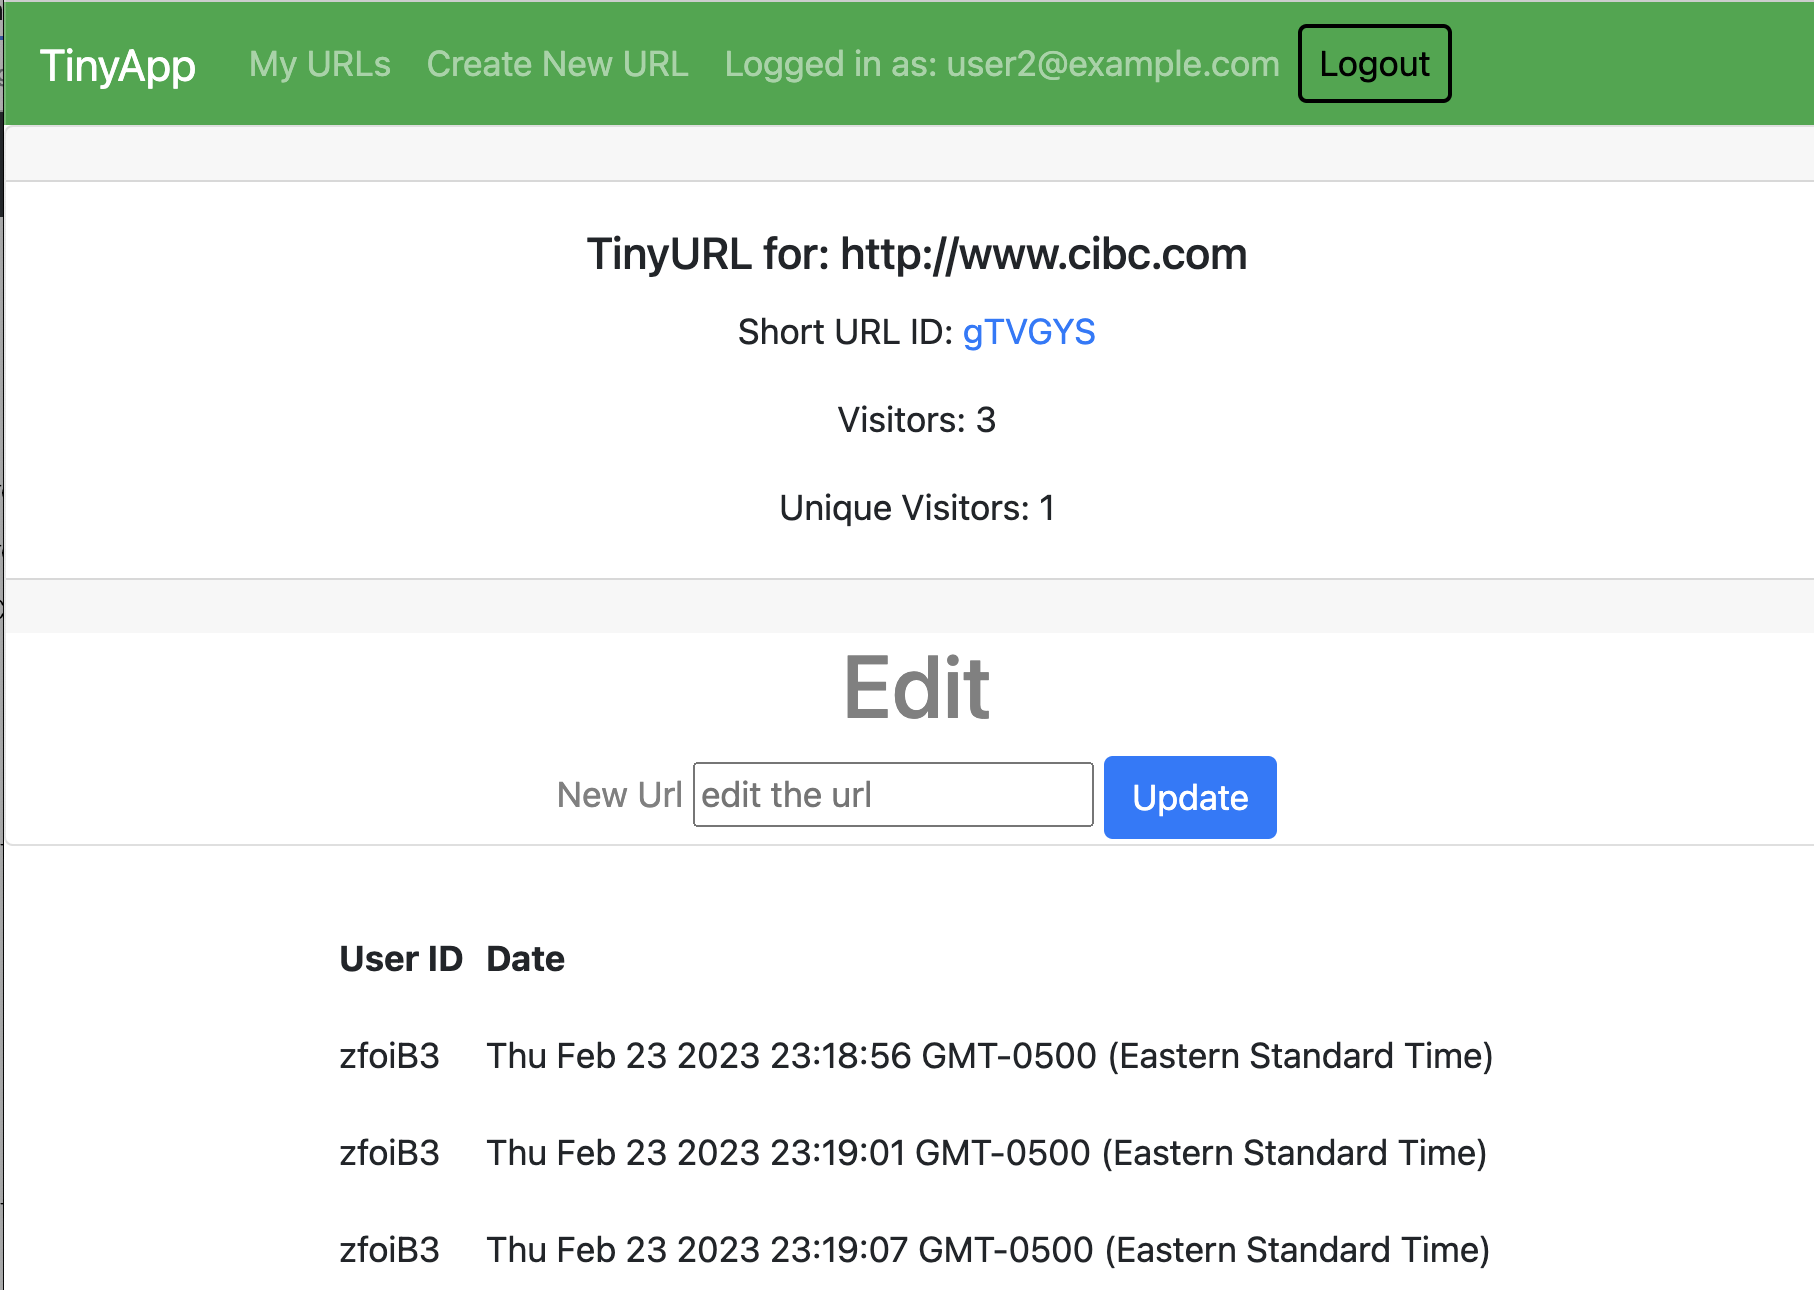
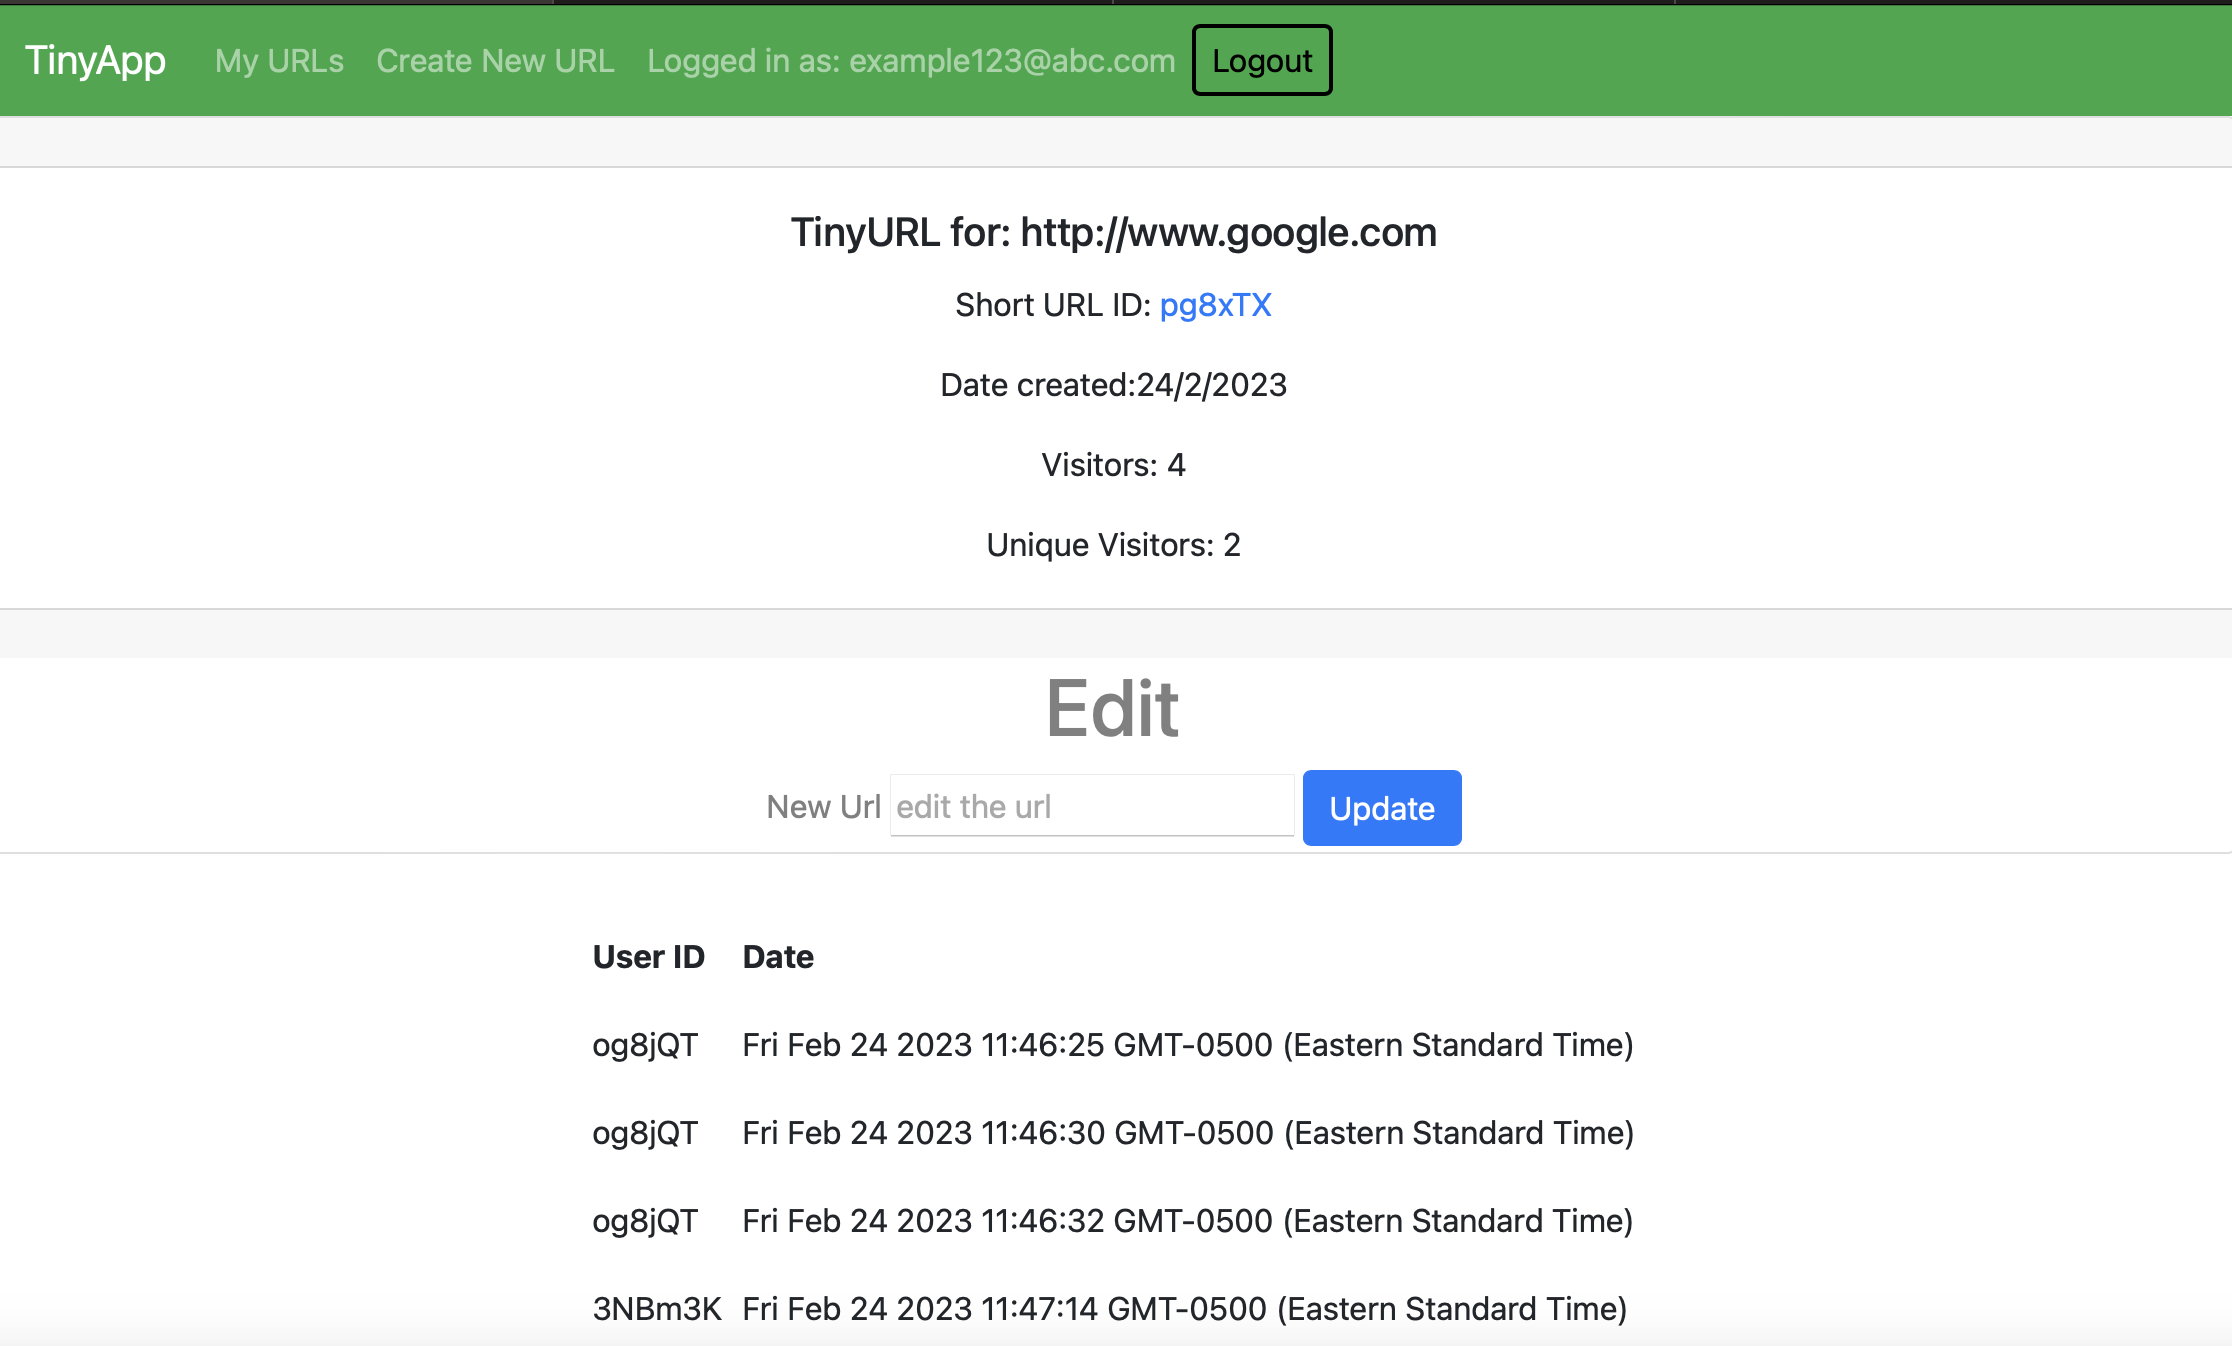
screenshot

diff --git a/express_server.js b/express_server.js
@@ -32,6 +32,7 @@ const urlDatabase = {
     visitors: [],
     counter: 0,
     uniqueCounter:0,
+    dateCreated: '20/2/2023'
   },
   i3BoGr: {
     longURL: "https://www.google.ca",
@@ -39,6 +40,7 @@ const urlDatabase = {
     visitors: [],
     counter: 0,
     uniqueCounter:0,
+    dateCreated: '18/2/2023'
   },
 };
 
@@ -55,9 +57,12 @@ const users = {
   },
 };
 
-const UrlsVisitors = [];
-
 //*ROUTES*\\
+
+// GET /urls.json
+app.get("/urls.json", (req, res) => {
+  res.json(urlDatabase);
+});
 
 //GET /
 app.get("/", (req, res) => {
@@ -70,19 +75,9 @@ app.get("/", (req, res) => {
   }
 });
 
-// GET /urls.json
-app.get("/urls.json", (req, res) => {
-  res.json(urlDatabase);
-});
-
-//GET /hello
-app.get("/hello", (req, res) => {
-  res.send("<html><body>Hello <b>World</b></body></html>\n");
-});
-
 // GET /urls
 app.get("/urls", (req,res) => {
-  const templateVars = { id: req.params.id, longURL: urlDatabase[req.params.id], users, user_id: req.session.user_id, urls: urlDatabase };
+  const templateVars = { id: req.params.id, longURL: urlDatabase[req.params.id], users, user_id: req.session.user_id, urls: urlDatabase}
   const userId = templateVars.user_id;
   if (userId) {
     res.render("urls_index",templateVars);
@@ -103,24 +98,62 @@ app.get("/urls/new", (req, res) => {
 
 //GET /urls/:id
 app.get("/urls/:id", (req, res) => {
-  const templateVars = { id: req.params.id, longURL: urlDatabase[req.params.id], users, user_id: req.session.user_id, urls: urlDatabase, counter:visitors, UrlsVisitors: UrlsVisitors, counterUnique: unique}
+  const templateVars = { id: req.params.id, longURL: urlDatabase[req.params.id], users, user_id: req.session.user_id, urls: urlDatabase}
   const urlID = req.params.id;
   const userId = templateVars.user_id;
   
+  //if a URL for the given ID does not exist:
+  if(!urlDatabase[urlID]){
+    return res.send('ERROR: This Url does not exist');
+  }
+  //if user is not logged in
   if (!userId) {
     return res.render('urls_message', templateVars);
   }
-  if ((userId) && !urlDatabase[urlID]) {
-    return res.send('ERROR: This Url is not valid');
+  //if user is logged it but does not own the URL with the given ID:
+  if ((userId) && urlDatabase[urlID].userId !== userId) {
+    return res.send('ERROR: You are not the owner of this Url');
   }
+  //if user is logged in and owns the URL for the given ID:
   if ((userId) && urlDatabase[urlID].userId === userId) {
     res.render("urls_show", templateVars);
   } else {
-    return res.send('ERROR: You can not edit this Url');
+    return res.send('ERROR: You do not have access to this Url');
   }
 });
 
-//POST /urls
+//GET /u/:id (Redirect any request to "/u/:id" to its longURL)
+app.get("/u/:id", (req, res) => {
+  const templateVars = { id: req.params.id, longURL: urlDatabase[req.params.id], users, user_id: req.session.user_id, urls: urlDatabase}
+  const urlID = req.params.id;
+  const userId = templateVars.user_id;
+  const longURL = urlDatabase[req.params.id].longURL;
+
+  //keep track of how many times a given short URL is visited 
+  urlDatabase[urlID].counter++
+
+  //keep track of how many UNIQUE visitors visit each url
+  const date = new Date().toString();
+  if(!req.session.uniqueVisitorId){
+    req.session.uniqueVisitorId = generateRandomString();
+    urlDatabase[urlID].uniqueCounter++;
+  }
+  
+  //keep track of every visit (timestamp, and a generated visitor_id) and display the list on the URL edit page
+  const newVisitor = {id: req.session.uniqueVisitorId, date:date}
+  urlDatabase[urlID].visitors.push(newVisitor)
+  console.log(urlDatabase)
+
+  //if URL for the given ID does not exist:
+  if (!urlDatabase[urlID]) {
+    return res.send('ERROR: This Url is not valid');
+  }
+  //if URL for the given ID exists:
+  return res.redirect(longURL);
+
+});
+
+//POST /urls (create a new Url)
 app.post("/urls", (req, res) => {
   let templateVars = { id: req.params.id, longURL: urlDatabase[req.params.id], users, user_id: req.session.user_id, urls: urlDatabase };
   const userId = templateVars.user_id;
@@ -135,6 +168,7 @@ app.post("/urls", (req, res) => {
       counter: 0,
       uniqueCounter:0,
       visitors: [],
+      dateCreated: `${new Date().getDate()}/${new Date().getMonth()+1}/${new Date().getFullYear()}`
     };
     console.log(urlDatabase, users);
     res.redirect(`/urls/${randomString}`);
@@ -144,84 +178,77 @@ app.post("/urls", (req, res) => {
   }
 });
 
-//GET /message
-app.get("/message", (req, res) => {
-  const templateVars = { id: req.params.id, longURL: urlDatabase[req.params.id], users, user_id: req.session.user_id, urls: urlDatabase };
-
-  res.render('urls_message', templateVars);
-});
-
-//Redirect any request to "/u/:id" to its longURL
-let visitors = 0;
-let unique = 0;
-app.get("/u/:id", (req, res) => {
-  const templateVars = { id: req.params.id, longURL: urlDatabase[req.params.id], users, user_id: req.session.user_id, urls: urlDatabase, counter:visitors, UrlsVisitors: UrlsVisitors, counterUnique: unique}
-  const urlID = req.params.id;
-  const userId = templateVars.user_id;
-  const longURL = urlDatabase[req.params.id].longURL;
-  urlDatabase[urlID].counter++
-
-  
-  const date = new Date().toString();
-  if(!req.session.uniqueVisitorId){
-    req.session.uniqueVisitorId = generateRandomString();
-    urlDatabase[urlID].uniqueCounter++;
-    urlDatabase[urlID].visitors = {id: req.session.uniqueVisitorId, date:date};
-  }
-  
-  const newVisitor = {id: req.session.uniqueVisitorId, date:date}
-  urlDatabase[urlID].visitors.push(newVisitor)
-  console.log(urlDatabase)
-
-  if (!urlDatabase[urlID]) {
-    return res.send('ERROR: This Url is not valid');
-  }
-  return res.redirect(longURL);
-
-});
-
-//delete an url
-app.post("/urls/:id", (req, res) => {
-  const templateVars = { id: req.params.id, longURL: urlDatabase[req.params.id], users, user_id: req.session.user_id, urls: urlDatabase };
-  const urlID = req.params.id;
-  const userId = templateVars.user_id;
-  if (!userId) {
-    return res.render('urls_message', templateVars);
-  }
-  if ((userId) && urlDatabase[urlID].userId === userId) {
-    delete urlDatabase[urlID];
-    return res.redirect(`/urls`);
-  } else {
-    return res.send('You cannot delete this url');
-  }
-});
-
-//update URL
+//POST /urls/:id (Edit URL)
 app.post("/u/:id", (req, res) => {
   const templateVars = { id: req.params.id, longURL: urlDatabase[req.params.id], users, user_id: req.session.user_id, urls: urlDatabase };
   const urlID = req.params.id;
   const userId = templateVars.user_id;
   const newUrl = req.body.newUrl;
 
+  //if user is not logged in:
   if (!userId) {
     return res.render('urls_message', templateVars);
   }
+  //if user is logged in and owns the URL for the given ID:
   if ((userId) && urlDatabase[urlID].userId === userId) {
     urlDatabase[req.params.id].longURL = newUrl;
     res.redirect(`/urls`);
+  } 
+  //if user is logged it but does not own the URL for the given ID:
+  if ((userId) && urlDatabase[urlID].userId !== userId) {
+    return res.render('urls_message', templateVars);
   } else {
     return res.send('You cannot edit this url');
   }
 
 });
 
+//POST /urls/:id (Delete URL)
+app.post("/urls/:id", (req, res) => {
+  const templateVars = { id: req.params.id, longURL: urlDatabase[req.params.id], users, user_id: req.session.user_id, urls: urlDatabase };
+  const urlID = req.params.id;
+  const userId = templateVars.user_id;
+
+  //if user is not logged in:
+  if (!userId) {
+    return res.render('urls_message', templateVars);
+  }
+  //if user is logged in and owns the URL for the given ID:
+  if ((userId) && urlDatabase[urlID].userId === userId) {
+    delete urlDatabase[urlID];
+    return res.redirect(`/urls`);
+  }
+  //if user is logged it but does not own the URL for the given ID:
+  if ((userId) && urlDatabase[urlID].userId !== userId) {
+    delete urlDatabase[urlID];
+    return res.render('urls_message', templateVars);
+  } else {
+    return res.send('You cannot delete this url');
+  }
+});
+
 //GET /login
 app.get("/login", (req, res) => {
   const templateVars = { id: req.params.id, longURL: urlDatabase[req.params.id], users, user_id: req.session.user_id };
+
+  //if user is logged in:
   if (templateVars.user_id) {
     res.redirect('/urls');
   }
+  //if user is not logged in:
   res.render("urls_login", templateVars);
+});
+
+//get /register and save cookie
+app.get("/register", (req, res) => {
+  const templateVars = { id: req.params.id, longURL: urlDatabase[req.params.id], users, user_id: req.session.user_id };
+
+  //if user is logged in:
+  if (templateVars.user_id) {
+    res.redirect('/urls');
+  } else {
+    res.render("urls_register", templateVars);
+  }
 });
 
 //post /login and save cookie
@@ -230,46 +257,33 @@ app.post("/login", (req, res) => {
   const password = req.body.password;
   const user = getUserByEmail(email,users);
   const userId = user.id;
-  if (!userId) {
-    return res.status(400).send('Please provide an email AND password');
+  
+  //if email or password are empty:
+  if (!userId || !password) {
+    return res.status(400).send('ERROR: Please provide Email AND Pasword');
   }
+  //if email and password params match an existing user:
   if (bcrypt.compareSync(password,users[userId].password) && users[userId].email === email) {
     req.session.user_id = userId;
     res.redirect("/urls");
-  } else {
-    res.status(400).send('ERROR: Email and/or Pasword do not match');
+  } //if email and password params don't match an existing user:
+  else {
+    res.status(400).send('ERROR: Your email and password do not match. Please try again.');
   }
 });
 
-//post /logout
-app.post("/logout", (req, res) => {
-  req.session = null; // destroy the session
-  res.clearCookie('session'); // clear the session cookie
-  res.redirect('/login');
-});
-
-//get /register and save cookie
-app.get("/register", (req, res) => {
-  const templateVars = { id: req.params.id, longURL: urlDatabase[req.params.id], users, user_id: req.session.user_id };
-  if (templateVars.user_id) {
-    res.redirect('/urls');
-  } else {
-    res.render("urls_register", templateVars);
-  }
-});
-
-//post /register
+ //post /register
 app.post("/register", (req, res) => {
   const id = generateRandomString();
   const email = req.body.email;
   const password = bcrypt.hashSync(req.body.password);
-  // console.log(password)
-  // Check for empty email or password
+  
+  //if email or password are empty:
   if (!email || !password) {
     return res.status(400).json({ error: 'Email and password are required.' });
   }
   
-  // Check if email is already in use
+  // If email is already in use
   const user = getUserByEmail(email,users);
   const emailInUse = user.email;
   if (emailInUse) {
@@ -281,6 +295,20 @@ app.post("/register", (req, res) => {
     res.redirect("/urls");
   }
 
+});
+
+//post /logout
+app.post("/logout", (req, res) => {
+  req.session = null; // destroy the session
+  res.clearCookie('session'); // clear the session cookie
+  res.redirect('/login');
+});
+
+//GET /message
+app.get("/message", (req, res) => {
+  const templateVars = { id: req.params.id, longURL: urlDatabase[req.params.id], users, user_id: req.session.user_id, urls: urlDatabase };
+
+  res.render('urls_message', templateVars);
 });
 
 
